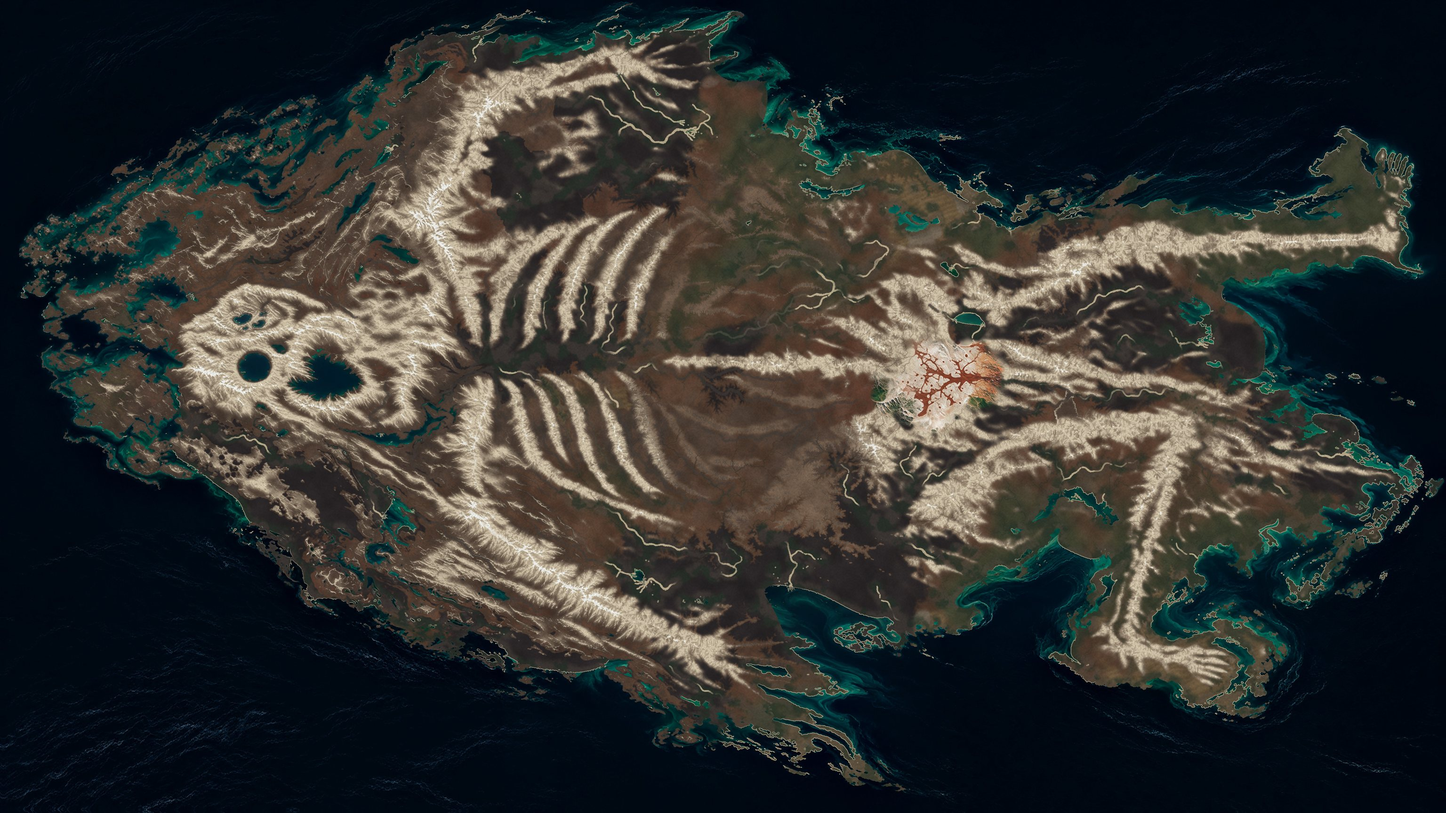
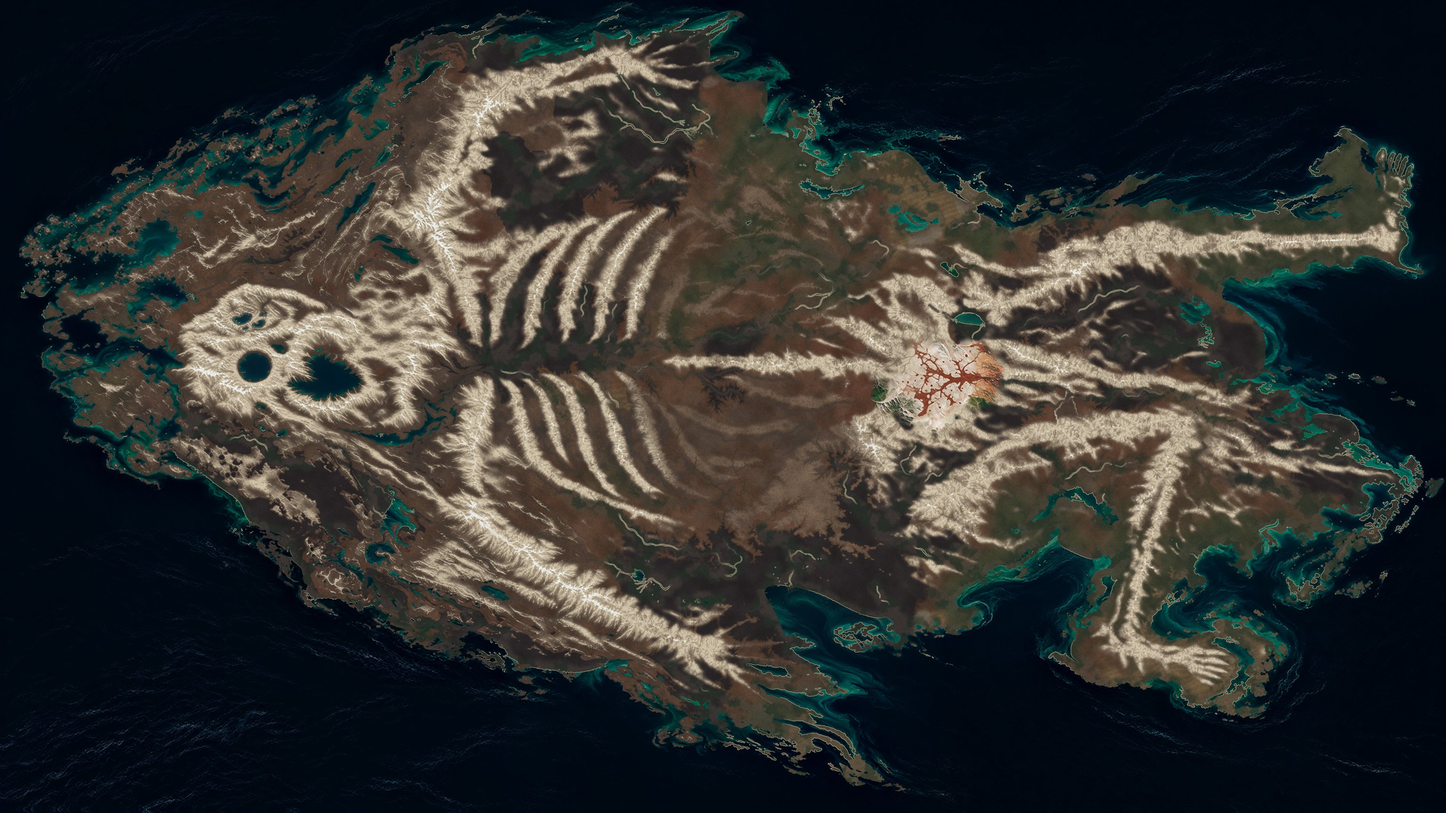
Coast: shelves under the water off low shores, none off high ground, barred; beach on fewer reaches and on the land's side only, rivers dark with silt; lake coves as they were (keys byte equal)

diff --git a/src/places/reveal/land/index.ts b/src/places/reveal/land/index.ts
@@ -303,7 +303,7 @@ ${BODY_COARSE}
     if (abs(bedKm) < 16.0) {
       // (Under the east wall, where the picture's shore is one smooth line, it is broken into coves and spurs of fallen rock.)
       float east = smoothstep(-0.25, 0.5, fromLake.x) * (1.0 - smoothstep(1.3, 1.6, lakeFar)) * (1.0 - smoothstep(8.0, 16.0, abs(bedKm)));
-      if (east > 0.0) bedKm += east * (13.0 * (nWide - 0.5) + 8.0 * (nBay - 0.5));
+      if (east > 0.0) bedKm += east * (20.0 * (nWide - 0.5) + 9.0 * (nBay - 0.5));
       // (The fine notches of a shore are worked only near it: farther off they move nothing that is seen.)
       float fine = 1.0 - smoothstep(1.8, 2.6, abs(bedKm));
       if (fine > 0.0) {

diff --git a/assets-src/reveal/land/body/make_body.py b/assets-src/reveal/land/body/make_body.py
@@ -43,6 +43,7 @@ RELIEF_KM = float(os.environ.get('RELIEF_KM', '16'))
 BODYW = float(os.environ.get('BODYW', '1.0'))
 RIBFLAT = float(os.environ.get('RIBFLAT', '0.7'))
 LESSFLAT = float(os.environ.get('LESSFLAT', '0.75'))
+SHELF = float(os.environ.get('SHELF', '60'))
 ONLY = os.environ.get('ONLY', '')
 TURN = math.atan2(-0.2, 0.78) - math.radians(3.0)
 SUN = (math.sin(TURN), -math.cos(TURN))
@@ -254,7 +255,14 @@ def outputs():
     relief_old = np.asarray(Image.open(os.path.join(LAND, 'relief-a.jpg')).convert('RGB').resize((W, H), Image.LANCZOS), dtype=np.float32) / 255.0
     r = 0.5 + 0.5 * np.tanh(gx_lit * 17.0)
     g = 0.5 + 0.5 * np.tanh(gy_lit * 17.0)
-    b = np.where(dom, 0.3 + 0.7 * (0.07 + 0.93 * e), np.minimum(relief_old[..., 2], 0.25))
+    # (The shelves: off low shores the bed stays shallow a long way out and then falls away, off high ground it falls at once; the
+    # width is unlike from reach to reach and the shelf is barred. The old map's shallows stay where they are deeper in than these.)
+    low_near = ndimage.gaussian_filter(e * dom, 24.0 * px) / (ndimage.gaussian_filter(dom.astype(np.float32), 24.0 * px) + 1e-3)
+    shelf_w = 8.0 + SHELF * (1.0 - smooth(0.05, 0.2, low_near)) * smooth(0.3, 0.7, fbm((H, W), np.random.default_rng(SEED + 13), 150 * px, 3))
+    d_sea = ndimage.gaussian_filter(np.maximum(-d_shore, 0.0), 1.5 * px)
+    bars = 0.7 + 0.6 * fbm((H, W), np.random.default_rng(SEED + 14), 28 * px, 4)
+    shelf = (1.0 - smooth(0.55 * shelf_w, shelf_w, d_sea)) * (1.0 - 0.4 * d_sea / shelf_w) * bars * (1.0 - keep)
+    b = np.where(dom, 0.3 + 0.7 * (0.07 + 0.93 * e), np.minimum(np.maximum(relief_old[..., 2], 0.21 * np.clip(shelf, 0.0, 1.0)), 0.25))
     # (The strait of the Ribs: the land sheet lets the sea into the low ground there by this height. Its water stays where the
     # old relief had it, so the coast of the strait does not move.)
     yy, xx = np.mgrid[0:H, 0:W].astype(np.float32)
@@ -388,7 +396,7 @@ def outputs():
     rock = mixc(rock, srgb(232, 232, 228), smooth(0.88, 0.98, e) * smooth(0.0, 0.05, ridge) * (1.0 - lesser))
     colour = mixc(country, rock, np.maximum(smooth(0.13, 0.36, e + 0.25 * np.maximum(ridge, 0.0) * 4.0), np.clip(BODYW * 1.2 * body, 0.0, 1.0) * (1.0 - 0.9 * lesser)))
     # The coast: a pale hairline of beach on low shores, dark rock where the land meets the sea steep.
-    low_shore = (1.0 - smooth(0.02, 0.07, ndimage.gaussian_filter(e, 2.0 * px))) * smooth(0.42, 0.56, fbm((H, W), rng, 120 * px, 3))
+    low_shore = (1.0 - smooth(0.02, 0.07, ndimage.gaussian_filter(e, 2.0 * px))) * smooth(0.5, 0.62, fbm((H, W), rng, 120 * px, 3))
     # The coastal plain: dark wet growth and grey flats behind the beach, deep in one reach and a strip in the next, so no low
     # shore runs to the water as one fill.
     reach = 8.0 + 40.0 * fbm((H, W), np.random.default_rng(SEED + 11), 90 * px, 3)
@@ -396,8 +404,10 @@ def outputs():
     tide = smooth(0.42, 0.6, fbm((H, W), np.random.default_rng(SEED + 12), 26 * px, 4))
     colour = mixc(colour, srgb(38, 50, 40), 0.7 * coastal * tide)
     colour = mixc(colour, srgb(74, 68, 60), 0.5 * coastal * (1.0 - tide))
-    beach = (1.0 - smooth(0.6, 2.2, d_shore)) * low_shore * dom
-    colour = mixc(colour, sand, 0.85 * beach)
+    # (A beach lies on the land's side of the water only: the bed of a river is not sand from bank to bank, it is dark with silt.)
+    beach = (1.0 - smooth(0.6, 2.2, d_shore)) * smooth(-1.2, -0.2, d_shore) * low_shore * dom
+    colour = mixc(colour, srgb(34, 42, 40), 0.7 * (1.0 - smooth(-1.6, -0.4, d_shore)) * dom)
+    colour = mixc(colour, sand, 0.7 * beach)
     steep_shore = (1.0 - smooth(1.0, 5.0, d_shore)) * smooth(0.05, 0.14, ndimage.gaussian_filter(e, 2.0 * px))
     colour = mixc(colour, cliff, 0.7 * steep_shore * dom)
     colour *= (0.93 + 0.14 * grain)[..., None]

diff --git a/assets-src/reveal/land/RECIPE.md b/assets-src/reveal/land/RECIPE.md
@@ -103,5 +103,5 @@ Made by: `assets-src/reveal/land/body/make_body.py` on Python 3 with numpy, scip
 From: `public/assets/reveal/maps/map-a-h.png` (where the bones stand and how high), `public/assets/reveal/maps/map-a.jpg` (the colour of the salt pan of the hips and of the water, kept), `public/assets/reveal/land/shore-a.png` (land or water: the coast is not moved), `relief-a.jpg` and `light-a.jpg` (the water's own values, kept; the old water of the strait).
 Prompt or command: `python3 assets-src/reveal/land/body/make_body.py` from the root of the repo (about five minutes; `F=2` works at half size in under a minute; `STAGE=outputs` writes the pictures again from the kept height field under `out/work/body/`; `BODYW` sets how much of a bone's body is pale beside its crest line).
 Takes: not generated. Seed 30. The numbers of the uplift, the erosion and the colours were set by looking at frames 10027, 11100 and 11743.
-Why this one: the old maps of the wide level were pictures with relief guessed from their light and dark, so from orbit the ranges were soft smears and the country one brown fill. Here the whole continent is one height field worn by running water (uplift along the bones' middle lines, a filled surface, steepest descent drainage, stream power erosion, 60 passes at 4096 x 2305): every bone is a range with a crest line, spurs and valleys of unlike length that fork. From that one field: the relief in the encoding of `relief-a.jpg` (slope in red and green, height in blue; the strait's water kept where it stood), the light in the encoding of `light-a.jpg` (the horizon toward the day's sun, the open sky, the shut waters), and the colour of the country computed from height, slope, drainage and the distance to the shore, province by province (dark lava plain, olive plain, pale dunes, rust, dry fans, salt pans, damp valley floors, stained rock, pale crests, old snow on the highest only, a hairline of beach, dark rock on steep shores). No light is in the colour. The outer ranges of the chest are left dark so each side reads five or six ribs. Each bone keeps its mass: the whole breadth of the old bone is pale rock (the old height, blurred, between 0.36 and 0.68), stained where water runs in its gullies and where it rots, and the low country is kept under half its value, in brown, olive, rust and slate. The pan of the hips is a basin worn into the field with a broken shore (uplift taken down inside a ring of uneven reach, seed 37), and the old colour is kept on its floor only. One range a rib: the slope and the horizon of the light are taken from a land on which the broad form of each bone stands lower than it is (`RIBFLAT` 0.7 of the height between 6 and 22 cells of blur), so a bone is one pale band ridged by its spurs and not two lines with the crest's shade between; the lesser ranges of the chest toward the belly are lowered in the light the same way (`LESSFLAT` 0.75) and kept dark. The height in the relief's blue is the true one. `PAL=b` draws the second palette of the low country (green and slate) for a choice and is not the committed picture.
+Why this one: the old maps of the wide level were pictures with relief guessed from their light and dark, so from orbit the ranges were soft smears and the country one brown fill. Here the whole continent is one height field worn by running water (uplift along the bones' middle lines, a filled surface, steepest descent drainage, stream power erosion, 60 passes at 4096 x 2305): every bone is a range with a crest line, spurs and valleys of unlike length that fork. From that one field: the relief in the encoding of `relief-a.jpg` (slope in red and green, height in blue; the strait's water kept where it stood), the light in the encoding of `light-a.jpg` (the horizon toward the day's sun, the open sky, the shut waters), and the colour of the country computed from height, slope, drainage and the distance to the shore, province by province (dark lava plain, olive plain, pale dunes, rust, dry fans, salt pans, damp valley floors, stained rock, pale crests, old snow on the highest only, a hairline of beach, dark rock on steep shores). No light is in the colour. The outer ranges of the chest are left dark so each side reads five or six ribs. Each bone keeps its mass: the whole breadth of the old bone is pale rock (the old height, blurred, between 0.36 and 0.68), stained where water runs in its gullies and where it rots, and the low country is kept under half its value, in brown, olive, rust and slate. The pan of the hips is a basin worn into the field with a broken shore (uplift taken down inside a ring of uneven reach, seed 37), and the old colour is kept on its floor only. One range a rib: the slope and the horizon of the light are taken from a land on which the broad form of each bone stands lower than it is (`RIBFLAT` 0.7 of the height between 6 and 22 cells of blur), so a bone is one pale band ridged by its spurs and not two lines with the crest's shade between; the lesser ranges of the chest toward the belly are lowered in the light the same way (`LESSFLAT` 0.75) and kept dark. The height in the relief's blue is the true one. The country west of the hips carries more rust (weight 0.6, fans 84,60,46), so the old rust land and the body's are near in colour where the one gives way to the other. Behind the beach lies a coastal plain, dark wet growth and grey flats within an uneven reach of 8 to 48 cells of the shore on low ground (seeds 41 and 42). The beach is on fewer reaches and on the land's side of the water only; the bed of a river is dark with silt. The shelves: under water the relief's blue is the old map's shallows or, where it is more, a shelf that stays shallow a long way off low shores (to 68 cells, `SHELF` 60, seed 43) and falls at once off high ground, barred (seed 44). `PAL=b` draws the second palette of the low country (green and slate) for a choice and is not the committed picture.
 Date: 2026-11-28
